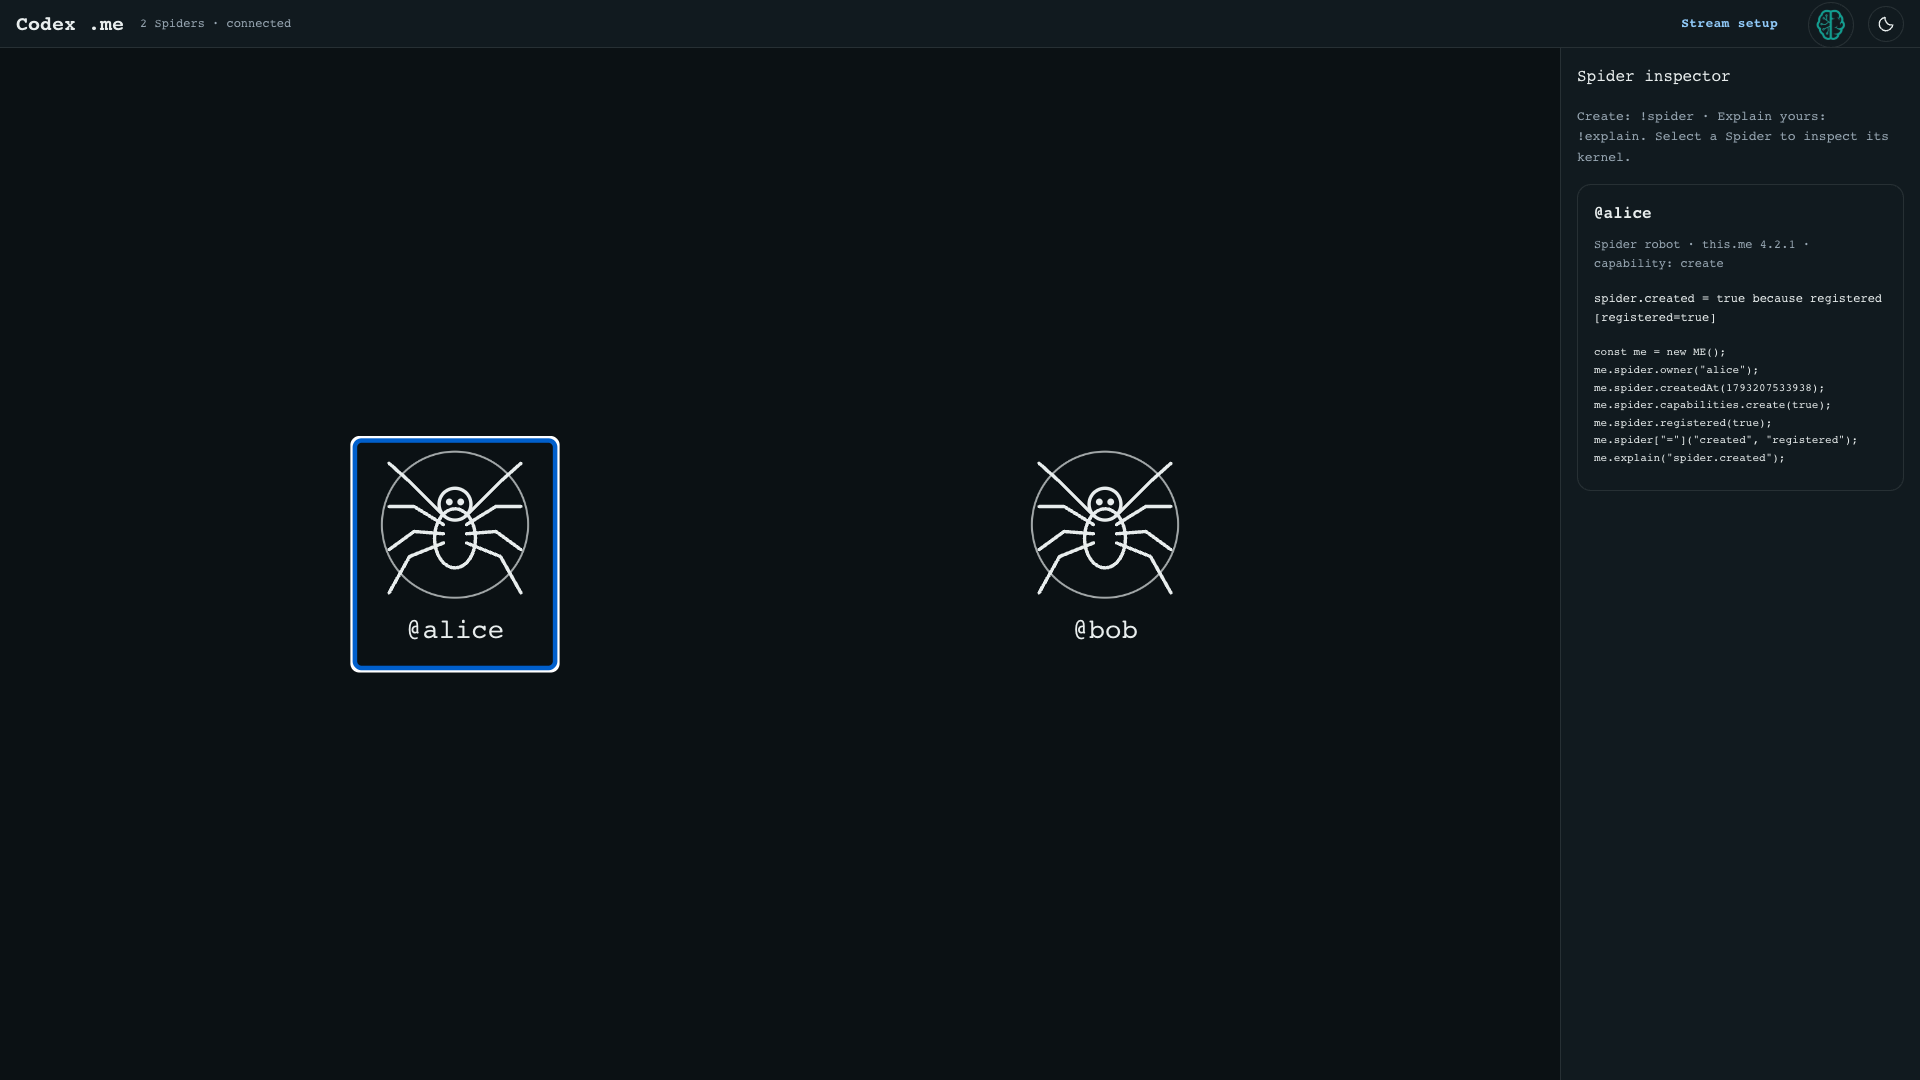
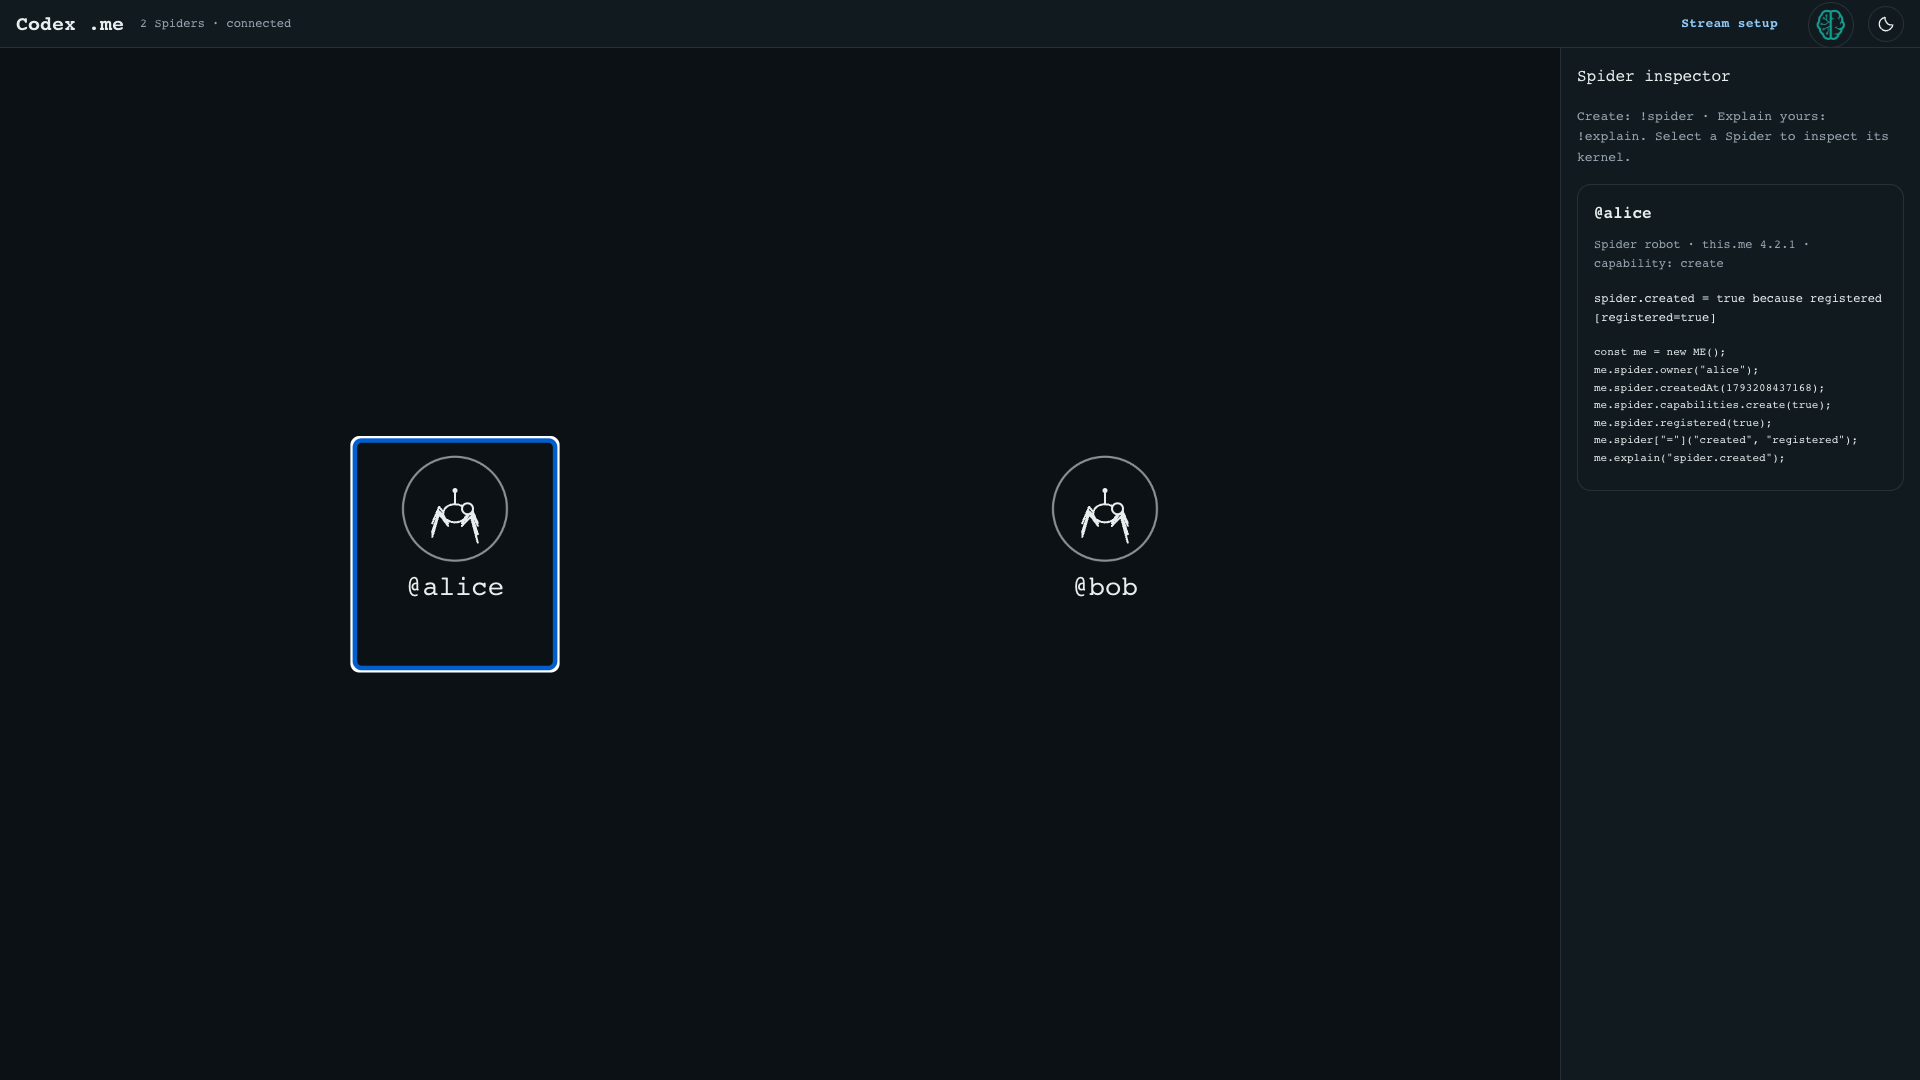
ui: restore original Space spider robot drawing

Changed region(s): [[0.5312, 0.3972, 0.625, 0.6111], [0.1875, 0.3972, 0.2812, 0.6111]]

diff --git a/overlay/spiders.js b/overlay/spiders.js
@@ -5,22 +5,27 @@ const { ThemeSelector, ModeToggle } = createThemeControls(G, React);
 const transparent = new URLSearchParams(location.search).get('transparent') === '1';
 if (transparent) document.body.classList.add('transparent');
 const mono = { fontFamily: '"IBM Plex Mono", ui-monospace, monospace' };
-const ink = { fill: 'currentColor', stroke: 'currentColor' };
 function Spider({ spider, index, count, onSelect }) {
   const columns = Math.max(1, Math.ceil(Math.sqrt(count * 16 / 9))), rows = Math.ceil(count / columns);
   const x = (index % columns + 0.5) * 1600 / columns + 160, y = (Math.floor(index / columns) + 0.5) * 780 / rows + 110;
   const scale = Math.min(2.8, 1600 / columns / 145, 780 / rows / 100);
   const legs = [];
-  for (const side of [-1, 1]) for (let j = 0; j < 4; j++) legs.push(h('polyline', { key: `${side}:${j}`, points: `${side * 5},${-7 + j * 4} ${side * (17 + Math.abs(j - 1.5) * 2)},${-22 + j * 11} ${side * 29},${-30 + j * 19}`, fill: 'none', stroke: 'currentColor', strokeWidth: 1.5, strokeLinecap: 'round', strokeLinejoin: 'round' }));
+  // Original Space robot geometry, at its resting gait phase (no movement loop).
+  for (const side of [-1, 1]) for (let j = 0; j < 4; j++) {
+    const swing = Math.sin(j * 1.6 + (side > 0 ? Math.PI : 0)) * 1.6, base = -4.5 + j * 3 + swing;
+    legs.push(h('polyline', { key: `${side}:${j}`, points: `${side * 3},${-6 + j * 1.2} ${side * 7},${-9 + base * 0.4} ${side * 10},${base * 0.8}` }));
+  }
   return h('g', { 'data-spider-id': spider.id, transform: `translate(${x} ${y}) scale(${scale})`, onClick: onSelect, role: transparent ? undefined : 'button', tabIndex: transparent ? undefined : 0, onKeyDown: ev => { if (ev.key === 'Enter' || ev.key === ' ') onSelect(); }, 'aria-label': `Spider created by @${spider.owner}`, style: { cursor: transparent ? 'default' : 'pointer' } },
     h('title', null, `@${spider.owner} · ${spider.reason}`),
     !transparent ? h('rect', { x: -44, y: -40, width: 88, height: 100, fill: 'transparent', pointerEvents: 'all' }) : null,
-    h('circle', { r: 37, cy: -3, fill: 'none', stroke: 'currentColor', opacity: 0, className: 'spider-arrival' }),
-    ...legs,
-    h('ellipse', { cx: 0, cy: 3, rx: 9, ry: 13, fill: 'none', stroke: 'currentColor', strokeWidth: 1.5 }),
-    h('circle', { cx: 0, cy: -12, r: 7, fill: 'none', stroke: 'currentColor', strokeWidth: 1.5 }),
-    h('circle', { cx: -2.5, cy: -13, r: 1, ...ink }), h('circle', { cx: 2.5, cy: -13, r: 1, ...ink }),
-    h('text', { y: 47, textAnchor: 'middle', style: { ...mono, fontSize: 12, fill: 'currentColor' } }, `@${spider.owner}`));
+    h('circle', { r: 24, cy: -10, fill: 'none', stroke: 'currentColor', opacity: 0, className: 'spider-arrival' }),
+    h('g', { 'data-spider-shape': 'space-original', stroke: 'currentColor', strokeWidth: 0.9, strokeLinecap: 'round', strokeLinejoin: 'round', fill: 'none' },
+      ...legs,
+      h('ellipse', { cx: 0, cy: -8, rx: 5.2, ry: 4, fill: 'var(--spider-bg)' }),
+      h('circle', { cx: 5.5, cy: -10, r: 2.4, fill: 'var(--spider-bg)' }),
+      h('line', { x1: 0, y1: -12, x2: 0, y2: -17 }),
+      h('circle', { cx: 0, cy: -18, r: 1.1, fill: 'currentColor', stroke: 'none' })),
+    h('text', { y: 28, textAnchor: 'middle', style: { ...mono, fontSize: 12, fill: 'currentColor' } }, `@${spider.owner}`));
 }
 function App() {
   const [spiders, setSpiders] = React.useState([]), [connected, setConnected] = React.useState(false), [selected, select] = React.useState(null);
@@ -36,7 +41,7 @@ function App() {
     connect(); return () => { stopped = true; clearTimeout(timer); socket?.close(); };
   }, []);
   const current = spiders.find(s => s.id === selected) || spiders.at(-1);
-  const scene = h(Box, { component: 'main', sx: { minWidth: 0, minHeight: 0, height: '100%', position: 'relative', color: 'text.primary' } },
+  const scene = h(Box, { component: 'main', sx: theme => ({ minWidth: 0, minHeight: 0, height: '100%', position: 'relative', color: 'text.primary', '--spider-bg': theme.palette.background.default }) },
     h('svg', { id: 'spiders-scene', viewBox: '0 0 1920 1080', width: '100%', height: '100%', role: 'img', 'aria-label': 'Community Spiders', style: { display: 'block' } },
       spiders.map((spider, index) => h(Spider, { key: spider.id, spider, index, count: spiders.length, onSelect: () => select(spider.id) }))),
     !transparent && !spiders.length ? h(Box, { sx: { position: 'absolute', inset: 0, display: 'grid', placeContent: 'center', textAlign: 'center', px: 2, pointerEvents: 'none' } },

diff --git a/README.md b/README.md
@@ -2,7 +2,7 @@
 
 One Twitch viewer. One Spider robot. Viewers type **`!spider`** in chat and their Spider appears with their @username. Each Spider has an independent **this.me 4.2.1** kernel. The web inspector shows its creator, the actual creation script and a real `explain()` result. OBS uses a clean, transparent view of the same Spiders.
 
-This first version only creates Spiders: no walking, batteries, planets, radio or physics. It renders on state changes rather than running a continuous simulation. Codex builds the project; the product does not use an LLM or require AI API keys.
+This first version only creates Spiders: no walking, batteries, planets, radio or physics. It uses the original Space demo robot drawing in a resting pose and renders on state changes rather than running a continuous simulation. Codex builds the project; the product does not use an LLM or require AI API keys.
 
 ```text
 Twitch chat → EventSub → Node server → one kernel per Twitch user ID
@@ -18,7 +18,7 @@ Twitch chat → EventSub → Node server → one kernel per Twitch user ID
 
 **Built with Codex here:** Express/ws Twitch integration, OAuth and refresh/recovery, EventSub, chat replies, .GUI startup page, profile/logout/theme controls, the owner-requested Space presentation and walk fixes, and now the simplified server-owned Spider registry and synchronized .GUI views. Codex also created offline regression checks and these reproduction materials. The pinned kernel, original Space model, parser and original test files remain unchanged. The test script was adjusted for Node 24 test discovery.
 
-The owner confirmed real chat commands, robot movement and replies in the earlier Space demo, and the public video was verified on suignn's Twitch channel. These are prior-stage live checks. The new Spider creation flow has separate offline evidence; its first real Twitch creation is still pending. See [session evidence](evidence/SESSION.md). OBS previously reported network dropped frames; reducing simulation work does not establish that the upload issue is resolved.
+The owner confirmed real chat commands, robot movement and replies in the earlier Space demo, and the public video was verified on suignn's Twitch channel. These are prior-stage live checks. The new Spider creation flow has separate offline evidence. A real Spider owned by jabellae was subsequently verified in the live server registry and restored web view; its new live threaded reply was not independently checked. See [session evidence](evidence/SESSION.md). OBS previously reported network dropped frames; reducing simulation work does not establish that the upload issue is resolved.
 
 ## Run locally
 

diff --git a/evidence/SESSION.md b/evidence/SESSION.md
@@ -180,3 +180,10 @@ The registry belongs to the server and broadcasts public snapshots to Spider vie
 All 10 original tests and 19 server checks passed. The focused [offline Spider acceptance](spiders/result.json) passed uniqueness across login casing/rename, separate creator facts/kernels, real explanation, invalid identity/creation arguments, EventSub duplicate handling, one threaded reply per creation, synchronized web/OBS snapshots, browser reload retention, inspector selection and a full transparent 1920×1080 OBS scene. No browser errors. Test output: [original tests](spiders/original-tests.txt), [server checks](spiders/server-checks.txt), [browser check](spiders/browser-check.txt). Simulated views: [web](spiders/offline-web.png), [OBS](spiders/offline-obs.png). These sample users are offline fixtures, not real Twitch creations.
 
 Restarted only the verified project process on port 3017 and confirmed authenticated EventSub connectivity. Refreshed the existing OBS and transparent browser sources, then opened the web demo: it shows zero Spiders, connected, and the `!spider` instruction ([live ready state](spiders/live-ready.png)). The already authorized stream stayed active. No real Twitch message was sent by the agent. First real creation in the new scope remains pending; previous live movement checks describe the archived Space stage. No claim that reduced simulation work fixes the separately observed network dropped frames.
+
+
+## Restore the original robot drawing (2026-10-28)
+
+The owner requested the same Spider appearance as the previous Space demo. Replaced the new front-facing illustration with the original eight-leg point formula at gait phase zero, the same body ellipse, offset head, antenna and endpoint, stroke width and joins. This is a stationary rendering only; no simulation or kernel changes. Preserved creator labels, one-per-user registry, inspector and arrival shine.
+
+Syntax and the existing Spider browser acceptance check passed. Refreshed the live OBS source and both existing web/transparent views without restarting the server. A real registry entry for jabellae was present and survived all display reloads; the live web inspector showed its creator, actual script and real explanation. See [original shape with real creator](spiders/original-shape-live.png). This verifies a real Twitch creation reached the registry and UI; this follow-up did not independently inspect its threaded reply. No agent chat messages were sent.
